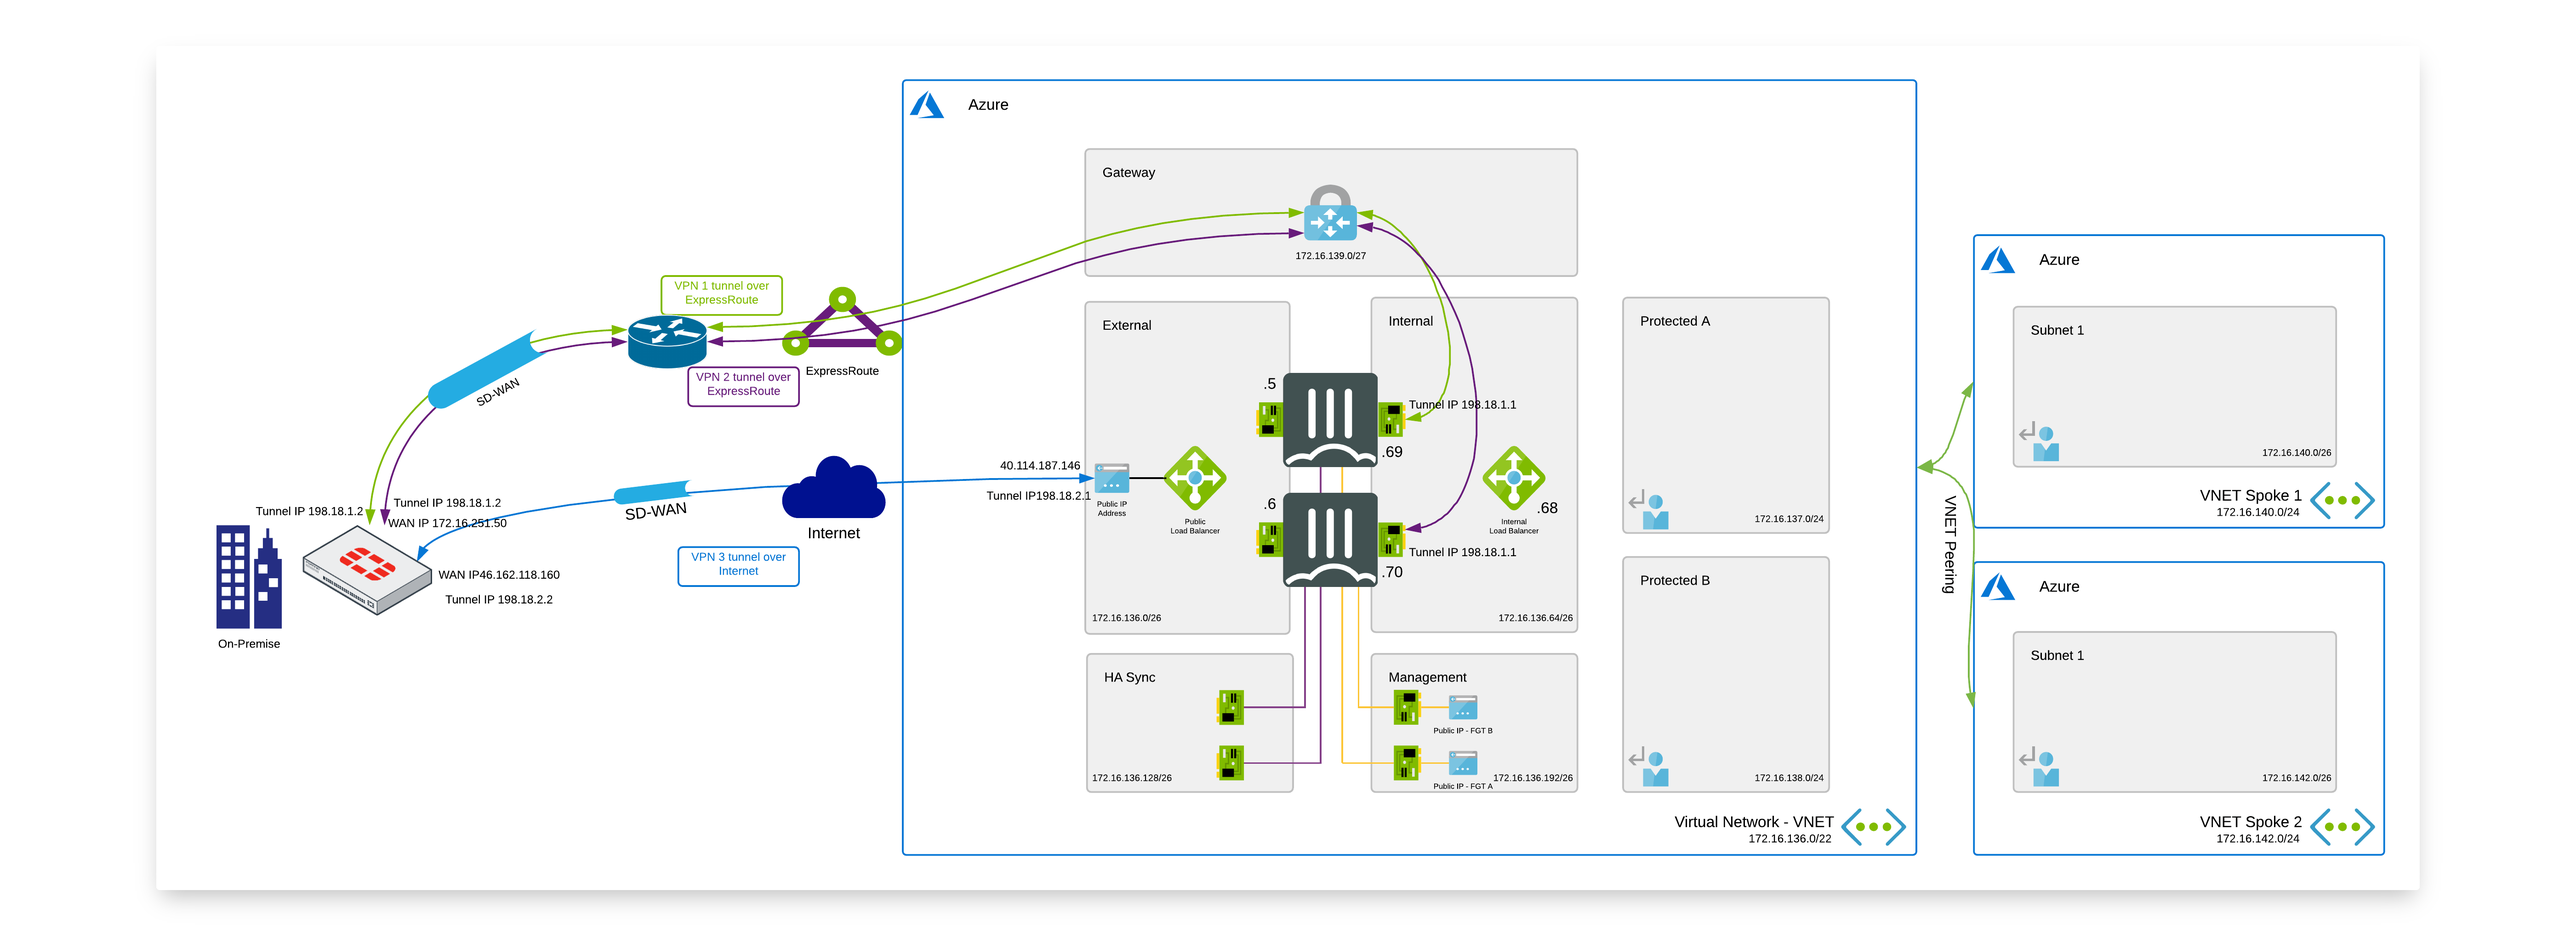
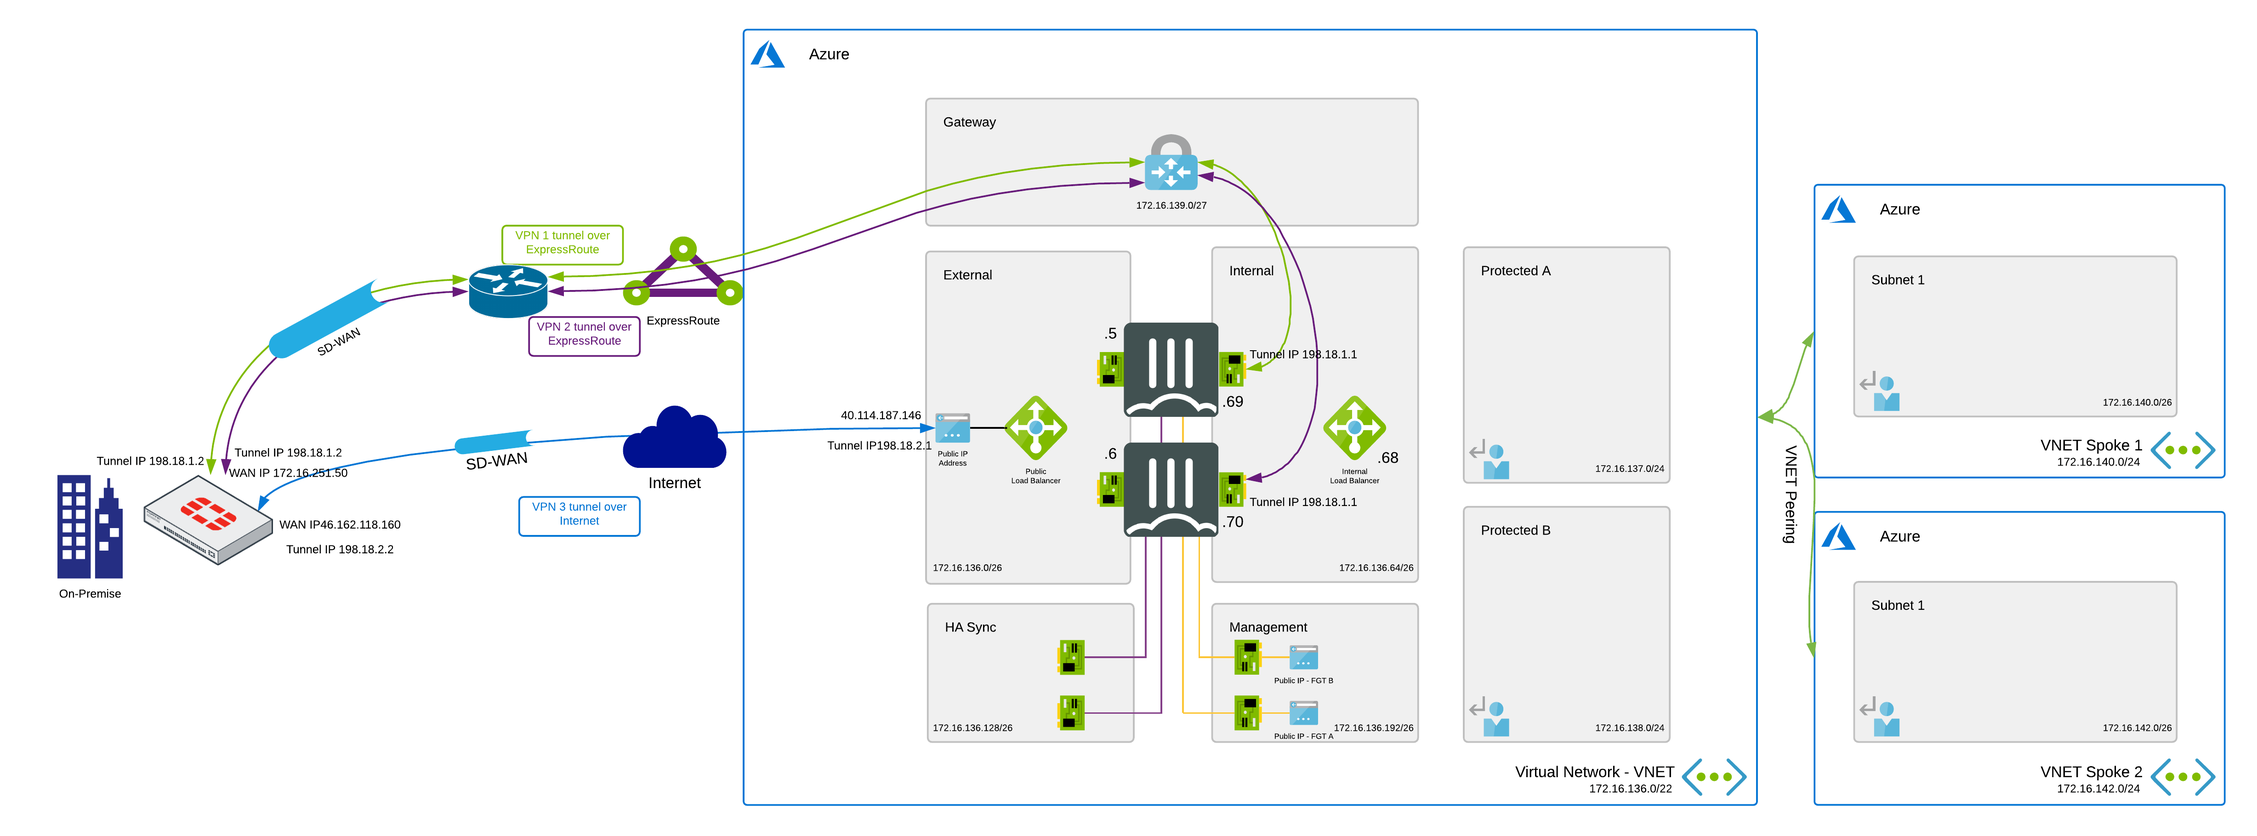
Fixed formatting and images

diff --git a/FortiGate/SD-WAN/docs/config-sdwan-encrypted-expressroute.md b/FortiGate/SD-WAN/docs/config-sdwan-encrypted-expressroute.md
@@ -6,57 +6,62 @@ ExpressRoute is an Azure service that lets you create private connections betwee
 
 ExpressRoute connections do not go over the public Internet, and offer higher security, reliability, and speeds with lower latencies than typical connections over the Internet.
 
+However ExpressRoute does not provide network traffic encryption for its circuits which might be critical in some scenarios. For example if you are operating in highly regulated sector, like finance, you might want to have full control over the traffic being sent over ExpressRoute and encrypt it before it is send to ExpressRoute circuit. Furthermore encryption of traffic sent to ExpressRoute might also be required by security audits in order to meet regulatory requirements.
 
-However ExpressRoute does not provide network traffic encryption for its circuits which might critical in some scenarios. For example if you are operating in highly regulated sector like finance you might want to have full control over the traffic being sent to ExpressRoute and encrypt it before it is send to ExpressRoute circuit. Furthermore encryption of traffic sent to ExpressRoute might also be required by secuirty audits in order to meet regulations requirements.
+In order to encrypt traffic send over ExpressRoute, you need to build VPN tunnel over ExpressRoute. To achieve this, you need to build two separate VPN tunnels from on-premise FortiGate to two FortiGate's NGFW running as Active-Passive cluster in Microsoft Azure. One VPN tunnel is terminated on primary FortiGate A in Azure and second tunnel is terminated on secondary FortiGate B in Azure.
 
- In order to encrypt traffic send to ExpressRoute you need to build VPN tunnel over ExpressRoute. To achieve that you need to build two separate VPN tunnels from on-premise Fortigate to two Fortigate's NGFW running as Active-Passive cluster in Microsoft Azure. One VPN tunnel is terminated on Active Fortigate A in Azure and second tunnel is terminated on passive Fortigate B in Azure.
 ## Flow
+
 In the diagram the different steps to establish a session are layed out. This flow is based on the configuration as deployed in this template.
 
-Inbound connection
+### Inbound connection
+
 ![Inbound Flow](../images/Flows-Inbound-SDWan-Encrypted-ExRoute.png)
-1. Connection from client via local Firewall which has VPN tunnels over Express Route Circuit - s: w.x.y.z - d: 172.16.137.4
+
+1. Connection from client via local Firewall which has VPN tunnels over ExpressRoute Circuit - s: w.x.y.z - d: 172.16.137.4
 w.x.y.z is private IP address of the host in Local Area Network on-premise. No NAT happens during the whole connection.
-2. Packet is sent via encrypted Express Route circuit to Azure ExpressRoute Gateway.s: w.x.y.z - d: 172.16.137.4
-3a. Active Fortigate which terminates VPN tunnel picks up a packet
-3b. In case of HA failover, passive Fortigate which terminates secondary VPN tunnel becomes active unit and  picks up a packet
+2. Packet is sent via encrypted ExpressRoute circuit to Azure ExpressRoute Gateway.s: w.x.y.z - d: 172.16.137.4
+3a. Primary FortiGate which terminates VPN tunnel picks up a packet
+3b. In case of HA failover, secondary FortiGate which terminates the secondary VPN tunnel becomes the active unit and picks up a packet
 4. FTG sends the packet to the server via routing in Azure - s: w.x.y.z - d: 172.16.137.4
 5. Based on SD-WAN configuration connection can take also second path. From on-premise client via local Firewall which has VPN tunnel to Azure over Internet- s: w.x.y.z - d: 172.16.137.4
-6. Packet is sent via VPN tunnel over Internet through External Azure Load Balancer to active Fortigate. s: w.x.y.z - d: 172.16.137.4
+6. Packet is sent via VPN tunnel over Internet through External Azure Load Balancer to active FortiGate. s: w.x.y.z - d: 172.16.137.4
 7. FTG sends the packet to the server via routing in Azure - s: w.x.y.z - d: 172.16.137.4
 
-Outbound connection
-![Inbound Flow](../images/Flows-Outbound-SDWan-Encrypted-ExRoute.png)
+### Outbound connection
+
+![Outbound Flow](../images/Flows-Outbound-SDWan-Encrypted-ExRoute.png)
+
 1. Connection from client to the private IP of the server in on-premise LAN. Azure routes the traffic using UDR to the internal Load Balancer. - s: 172.16.137.4 - d: a.b.c.d
 a.b.c.d is private IP address of the host in Local Area Network on-premise. No NAT happens during the whole connection.
 2. Azure Internal Load Balancer probes and send the packet to the active FGT. - s: 172.16.137.4 - d: a.b.c.d
-3. Active FGT inspects the packet and when allowed sends the packet to VPN tunnel over ExpressRoute circuit. - s: 172.16.136.5 - d: a.b.c.d
-4. Packet is sent via encrypted Express Route circuit to on-premise Fortigate - s: 172.16.137.4 - d: a.b.c.d
-5. On-premise Fortigate sends packet to the server in on-premise LAN - s: 172.16.137.4  d: a.b.c.d
+3. Primary FGT inspects the packet and when allowed sends the packet to VPN tunnel over ExpressRoute circuit. - s: 172.16.136.5 - d: a.b.c.d
+4. Packet is sent via encrypted ExpressRoute circuit to on-premise FortiGate - s: 172.16.137.4 - d: a.b.c.d
+5. On-premise FortiGate sends packet to the server in on-premise LAN - s: 172.16.137.4  d: a.b.c.d
 6. Connection from client to the private IP of the server in on-premise LAN. Azure routes the traffic using UDR to the internal Load Balancer. - s: 172.16.137.4 - d: a.b.c.d
-7. A zure Internal Load Balancer probes and send the packet to the active FGT. - s: 172.16.137.4 - d: a.b.c.d
-8. Based on SD-WAN configuration connection can take also second path. Active FGT inspects the packet and when allowed sends the packet to VPN tunnel over Internet. - s: 172.16.136.5 - d: a.b.c.d
-9. On-premise Fortigate sends packet to the server in on-premise LAN - s: 172.16.137.4  d: a.b.c.d
+7. Azure Internal Load Balancer probes and send the packet to the active FGT. - s: 172.16.137.4 - d: a.b.c.d
+8. Based on SD-WAN configuration connection can take also second path. Primary FGT inspects the packet and when allowed sends the packet to VPN tunnel over Internet. - s: 172.16.136.5 - d: a.b.c.d
+9. On-premise FortiGate sends packet to the server in on-premise LAN - s: 172.16.137.4  d: a.b.c.d
 
 ## Configuration
-To configure encrypted Express ROute you need to build two separate VPN tunnels from on-premise Fortigate to two Fortigate's running in MS Azure. One VPN tunnel is terminated on FTG A and second VPN tunnel is terminated on FTG B.
 
-## Configuration of on-premise Fortigate
+To configure encrypted Express ROute you need to build two separate VPN tunnels from on-premise FortiGate to two FortiGate's running in MS Azure. One VPN tunnel is terminated on FTG A and second VPN tunnel is terminated on FTG B.
 
-The drawing in [flow](#flow) section is used in the configuration screenshots with LAN on-premise 172.16.248.0/24 and IP address of Fortigate on-premise reachable via ExpressRoute 172.16.251.50
+### Configuration of on-premise FortiGate
 
-You can use VPN wizard to create VPN tunnel between on-premise Fortigate and Fortigates in Azure.
+The drawing in [flow](#flow) section is used in the configuration screenshots with LAN on-premise 172.16.248.0/24 and IP address of FortiGate on-premise reachable via ExpressRoute 172.16.251.50
 
-Configuration of VPN tunnel between on-premise Fortigate and Fortigate A 172.16.136.69 in Azure
+You can use the VPN wizard to create a VPN tunnel between on-premise FortiGate and FortiGates in Azure.
+
+Configuration of the VPN tunnel between on-premise FortiGate and FortiGate A (172.16.136.69) in Azure
 <p align="center">
   <img src="../images/VPN-FTG-Azure-A.png" alt="inbound flow">
 </p>
 
-
-- via XP_Local - Local network 172.16.248.0/24 which should be reachable via VPN tunnel
+- viaXP_Local - Local network 172.16.248.0/24 which should be reachable via VPN tunnel
 - viaXP_remote - Remote network which should be reachable via VPN tunnel
 
-Configuration of VPN tunnel between on-premise Fortigate and Fortigate B 172.16.136.70 in Azure
+Configuration of VPN tunnel between on-premise FortiGate and FortiGate B 172.16.136.70 in Azure
 <p align="center">
   <img src="../images/VPN-FTG-Azure-B.png" alt="inbound flow">
 </p>
@@ -90,9 +95,9 @@ You can also create new SD-WAN interface which consist of the 3 VPN tunnels (2 b
 - Incoming Interface: The interface where the packet is coming from. In our example it is port 5
 - Outgoing Interface: The interface where the packet is routed to, it is one of our newly created VPN tunnel
 - Source: LAN on-premise
-- Destination: Remote network in Azure that should be reachable via encrypted Express Route
+- Destination: Remote network in Azure that should be reachable via encrypted ExpressRoute
 Service: Service which should be allowed via VPN tunnel
-- NAT: Source NAT is not needed for an encrypted Express Route architecture.
+- NAT: Source NAT is not needed for an encrypted ExpressRoute architecture.
 
 Firewall policy allowing traffic from on-premise to Azure
 <p align="center">
@@ -112,18 +117,18 @@ Status of the VPN tunnel is displayed in VPN dashboard
 </p>
 
 
-## Configuration of Fortigate A & B in Azure
-You can use VPN wizard to create VPN tunnel between Azure FortiGate’s and Fortigate on-premise.
+## Configuration of FortiGate A & B in Azure
+You can use VPN wizard to create VPN tunnel between Azure FortiGate’s and FortiGate on-premise.
 <p align="center">
   <img src="../images/VPN-Azure-A-FTG.png" alt="inbound flow">
 </p>
 
 
-172.16.251.50 is an IP address of Fortigate on-premise reachable via ExpressRoute
+172.16.251.50 is an IP address of FortiGate on-premise reachable via ExpressRoute
 - via XP_Local - Local network in Azure
 - viaXP_remote - Remote on-premise network which should be reachable via VPN tunnel, in our example 172.16.248.0/24
 
-On Active Fortigate A static route to on-premise 172.16.248.0/24 network via VPN tunnel is created automatically.
+On primary FortiGate A static route to on-premise 172.16.248.0/24 network via VPN tunnel is created automatically.
 <p align="center">
   <img src="../images/Route-Azure-A.png" alt="inbound flow">
 </p>
@@ -141,9 +146,9 @@ Firewall policy allowing traffic from Azure to on-premise network 172.16.248.0/2
 Incoming Interface: The interface where the packet is coming from. In our example it is internal port 2 in Azure
 - Outgoing Interface: The interface where the packet is routed to, it is one of our newly created VPN tunnel
 - Source: LAN in Azure
-- Destination: Remote network on-premise 172.16.248.0/24 that should be reachable via encrypted Express Route
+- Destination: Remote network on-premise 172.16.248.0/24 that should be reachable via encrypted ExpressRoute
 - Service: Service which should be allowed via VPN tunnel
-- NAT: Source NAT is not needed for an encrypted Express Route architecture.
+- NAT: Source NAT is not needed for an encrypted ExpressRoute architecture.
 
 <p align="center">
   <img src="../images/Policy-Azure-Azure-FTG.png" alt="inbound flow">
@@ -179,7 +184,7 @@ On on-premise FTG create SD-WAN interface consisting of both VPN tunnels.
 
 Configure SD-WAN load balancing according to your needs (see [SD-WAN instruction](https://help.fortinet.com/fos60hlp/60/Content/FortiOS/fortigate-networking/SD-WAN/Configuring_basic_SD-WAN.htm))
 
-Configure Static route using previously created SD-WAN interface where 172.16.137.0/24 is a local network behind Azure Fortigates that should be reachable via SD-WAN interface.
+Configure Static route using previously created SD-WAN interface where 172.16.137.0/24 is a local network behind Azure FortiGates that should be reachable via SD-WAN interface.
 <p align="center">
   <img src="../images/SDWAN-route.png" alt="inbound flow">
 </p>
@@ -224,7 +229,7 @@ Status of all three VPN tunnels will be shown in dashboard
 
 
 
-Configuration of Fortigate in Azure, 3rd tunnel over Internet
+Configuration of FortiGate in Azure, 3rd tunnel over Internet
 
 You can use VPN wizard to create 3rd tunnel over Internet.
 <p align="center">
@@ -232,11 +237,11 @@ You can use VPN wizard to create 3rd tunnel over Internet.
 </p>
 
 
-Where remote gateway is the public IP of Fortigate on-premise
+Where remote gateway is the public IP of FortiGate on-premise
 - via_Internet_Local - Local network in Azure
 - via_Internet_remote - Remote on-premise network which should be reachable via VPN tunnel, in our example 172.16.248.0/24
 
-Firewall rule allowing traffic between Azure and on-premise Fortigate will be created automatically by the wizard as shown earlier.
+Firewall rule allowing traffic between Azure and on-premise FortiGate will be created automatically by the wizard as shown earlier.
 
 - Terminating an IPSEC tunnel via the Azure Load Balancer is limited to the TCP and UDP protocols. For IPSEC this means that both endpoints need to support NAT-T and run the data connection over UDP/4500 instead of the ESP protocol.
 - In the Azure Load Balancer 2 load balancing rules need to be created:
@@ -257,30 +262,30 @@ Firewall rule allowing traffic between Azure and on-premise Fortigate will be cr
 </p>
 
 
-Floating IP (direct server return) should be disabled in this configuration. This means that Azure External load balancer will perform DNAT and UDP500 & UDP4500 packets will arrive to Fortigates cluster with private IP address set as destination IP, the same IP on which VPN service is listening to.
+Floating IP (direct server return) should be disabled in this configuration. This means that Azure External load balancer will perform DNAT and UDP500 & UDP4500 packets will arrive to FortiGates cluster with private IP address set as destination IP, the same IP on which VPN service is listening to.
 
 
 ## BGP Configuration
-In larger environments with multiple on-premise Fortigates connecting to environment in Azure static route configuration is not scalable and easy to manage any more. To overcome this obstacle you can use dynamic routing [BGP](https://docs.fortinet.com/document/fortigate/6.4.2/administration-guide/750736/bgp) to steer the traffic between on-premise and cloud networks.
+In larger environments with multiple on-premise FortiGates connecting to environment in Azure static route configuration is not scalable and easy to manage any more. To overcome this obstacle you can use dynamic routing [BGP](https://docs.fortinet.com/document/fortigate/6.4.2/administration-guide/750736/bgp) to steer the traffic between on-premise and cloud networks.
 
 ![BGP](../images/BGP.png)
 
 ![BGP Architecture](../images/BGP-Architecture.png)
 
-**Configuration of Fortigates in Azure**
+**Configuration of FortiGates in Azure**
 
 You need to configure IP addresses on tunnel interfaces which will be used by BGP. This configuration will be synchronized between cluster members.
 
-Configuration of VPN tunnel interface via Express Route
+Configuration of VPN tunnel interface via ExpressRoute
 <p align="center">
-  <img src="../images/BGP-Azure-1.png" alt="BGP Express Route">
+  <img src="../images/BGP-Azure-1.png" alt="BGP ExpressRoute">
 </p>
 
-Where 192.18.1.1 is tunnel IP address of Fortigate A
+Where 192.18.1.1 is tunnel IP address of FortiGate A
 
 Configuration of VPN tunnel interface via Internet
 <p align="center">
-  <img src="../images/BGP-Azure-2.png" alt="BGP Express Route">
+  <img src="../images/BGP-Azure-2.png" alt="BGP ExpressRoute">
 </p>
 
 BGP Configuration
@@ -288,7 +293,7 @@ BGP Configuration
   <img src="../images/BGP-Azure.png" alt="BGP Azure">
 </p>
 
-Where **198.18.1.2** and **198.18.2.2** are IP addresses configured on tunnel interfaces on on-premise Fortigate for BGP. Both Azure Fortigates and on-premise Fortigate should have the same AS (Autonomous System) configured, for example 650005
+Where **198.18.1.2** and **198.18.2.2** are IP addresses configured on tunnel interfaces on on-premise FortiGate for BGP. Both Azure FortiGates and on-premise FortiGate should have the same AS (Autonomous System) configured, for example 650005
 
 Network that we want to publish via BGP needs to be defined in static route on Azure FortiGate’s already.
 Otherwise it will not be advertised by BGP. In this example we publish internal Azure network 172.16.136.0/22 via BGP.
@@ -349,17 +354,17 @@ Status of BGP routes
   <img src="../images/BGP-Status.png" alt="BGP Status">
 </p>
 
-**BGP Configuration on on-premise Fortigate**
+**BGP Configuration on on-premise FortiGate**
 
-You need to configure IP addresses on tunnel interfaces for BGP. **Same** IP address needs to configured on both VPN tunnel interfaces using Express Route.
+You need to configure IP addresses on tunnel interfaces for BGP. **Same** IP address needs to configured on both VPN tunnel interfaces using ExpressRoute.
 
-Configuration of first VPN tunnel interface via Express Route
+Configuration of first VPN tunnel interface via ExpressRoute
 
 <p align="center">
   <img src="../images/BGP-local1.png" alt="BGP local1">
 </p>
 
-Configuration of second VPN tunnel interface via Express Route
+Configuration of second VPN tunnel interface via ExpressRoute
 
 <p align="center">
   <img src="../images/BGP-local2.png" alt="BGP local2">
@@ -379,7 +384,7 @@ Configuration of VPN tunnel interface via Internet
 </p>
 
 Configuration of BGP
-**198.18.1.1 and 198.18.2.1** are the IP addresses configured on VPN tunnel interfaces on Azure Fortigates.
+**198.18.1.1 and 198.18.2.1** are the IP addresses configured on VPN tunnel interfaces on Azure FortiGates.
 **172.16.248.0/24** is an example of the on-premise protected network that you can publish via BGP.
 
 <p align="center">
